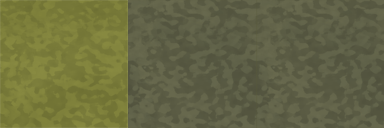
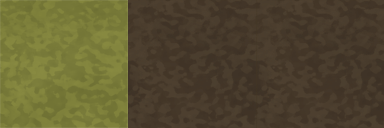
- Darkened the dirt texture for the HQ theme. (Thanks Renoki!) - Expirmented with fog effects, will get back to it later. - Player module no longer have to loop through every tile to handle   collision detections. - Changed how collisions with tiles happen. Trying to make it only push   the player i

diff --git a/src/p3d/player.py b/src/p3d/player.py
@@ -111,7 +111,7 @@ class player:
 
     # Set Start Position
     self.startPos = base.playerStart[self.id - 1]
-    self.ode_body.setPosition(self.startPos[0], self.startPos[1], self.startPos[2] + 10.0)
+    self.ode_body.setPosition(self.startPos[0], self.startPos[1], self.startPos[2] + 10.0 )
 
     # Stats
     self.accelerate = 20000
@@ -206,119 +206,130 @@ class player:
       # ODE Tile Collision
       tilePos = self.getTilePos()
       pos = self.ode_body.getPosition()
-      for i in base.tilePositions:
-        if not i['solid']: continue
 
-        # Below
-        if i['pos'][0] == tilePos[0] and i['pos'][1] == tilePos[1] and i['pos'][2] == tilePos[2] - 1:
-          vel[2] = .08
-          self.ode_body.setPosition(pos[0], pos[1], tilePos[2] * 2.0)
-        
-        elif self.colWithTile(i['pos'] * 2.0):
-          vel[0] = 0
-          vel[1] = 0
-          for x in range(len(self.moveVal)):
-            if (i['pos'][x] * 2.0) - pos[x] < 0:
-              force[x] = 20000
-            else:
-              force[x] = -20000
-        
+      for x in range(-2,2):
+        for y in range(0,2):
+          for z in range(-2,2):
 
-      # Fall off the side
-      if pos[2] < -10:
-        if not self.isDead:
-          lerpMe = LerpColorScaleInterval(self.actor, .5, (1,1,1,0))
-          lerpMe.start()
+ 
+            if str(int(tilePos[0]) + x) + "_" + str(int(tilePos[1]) + y) + "_" + str(int(tilePos[2]) + z) in base.tileCoords:
 
-          taskMgr.doMethodLater(.6, self.ode_body.setPosition, "Player_" + str(self.id) + "_FallResetPosition", extraArgs=[self.startPos[0], self.startPos[1], self.startPos[2] + 4], sort=1)
-          taskMgr.doMethodLater(.6, self.actor.setColorScale, "Player_" + str(self.id) + "_FallReappear", extraArgs=[(1,1,1,1)], sort=2)
-          taskMgr.doMethodLater(.65, self.particlePlay, "Player_" + str(self.id) + "_FallPoof", extraArgs=['diesplosion', 1.5], sort=3)
+              i = base.tileCoords[str(int(tilePos[0]) + x) + "_" + str(int(tilePos[1]) + y) + "_" + str(int(tilePos[2]) + z)]
 
-        self.isDead = True
-        vel[2] = 0
-        force[2] = 0
-      else:
-        self.isDead = False
+              if not i['solid']: continue
 
-
-      # ODE Player Collision
-
-      for i in base.players:
-        if i == self: continue
-        if i.noCollide == self or self.noCollide == i: continue
-
-        if self.colWithNode(i.actor, i.dimensions):
-
-          # Get Bump Power
-          myPower = self.getBumpPower(i.resist)
-          enePower = i.getBumpPower(self.resist)
-          
-          eneForce = [0,0,0]
-          eneVel = [0,0,0]
-
-          # Repel the players so they don't get stuck on each other.
-          oPos = i.actor.getPos()
-          for x in range(len(self.moveVal)):
-            if oPos[x] - pos[x] < 0:
-              force[x] = 40000
-              eneForce[x] = -40000
-
-              vel[x] = abs(enePower[x])
-              eneVel[x] = -abs(myPower[x])
-
-              if self.moveSpecial:
-                vel[x] = 0
-                force[x] = 50000
-                self.moveSpecial = False
-              elif i.moveSpecial:
-                eneVel[x] = 0
-                eneForce[x] = -50000
-                i.moveSpecial = False
+              # Below
+              if i['pos'][0] == tilePos[0] and i['pos'][1] == tilePos[1] and i['pos'][2] == tilePos[2] - 1:
+                vel[2] = .08
+                self.ode_body.setPosition(pos[0], pos[1], tilePos[2] * 2.0)
               
+              elif self.colWithTile(i['pos'] * 2.0):
+
+                for x in range(len(self.moveVal)):
+                  if (i['pos'][x] * 2.0) - pos[x] < 0:                     
+                    if vel[x] <= 0:
+                      vel[x] = 2.0
+                  else:
+                    if vel[x] > 0:
+                      vel[x] = -2.0
+        
+              
+
+            # Fall off the side
+            if pos[2] < -10:
+              if not self.isDead:
+                lerpMe = LerpColorScaleInterval(self.actor, .5, (1,1,1,0))
+                lerpMe.start()
+
+                taskMgr.doMethodLater(.6, self.ode_body.setPosition, "Player_" + str(self.id) + "_FallResetPosition", extraArgs=[self.startPos[0], self.startPos[1], self.startPos[2] + 4], sort=1)
+                taskMgr.doMethodLater(.6, self.actor.setColorScale, "Player_" + str(self.id) + "_FallReappear", extraArgs=[(1,1,1,1)], sort=2)
+                taskMgr.doMethodLater(.65, self.particlePlay, "Player_" + str(self.id) + "_FallPoof", extraArgs=['diesplosion', 1.5], sort=3)
+
+              self.isDead = True
+              vel[2] = 0
+              force[2] = 0
             else:
-              force[x] = -40000
-              eneForce[x] = 40000
-
-              vel[x] = -abs(enePower[x])
-              eneVel[x] = abs(myPower[x])
-
-              if self.moveSpecial:
-                vel[x] = 0
-                force[x] = -50000
-                self.moveSpecial = False
-              elif i.moveSpecial:
-                eneVel[x] = 0
-                eneForce[x] = 50000
-                i.moveSpecial = False
-
-          if not i.moveSpecial:
-            
-
-            i.ode_body.setLinearVel(eneVel[0], eneVel[1], eneVel[2])
-            i.ode_body.setForce(eneForce[0], eneForce[1], eneForce[2])
-
-            if abs(eneVel[0]) >= 4.5 or abs(eneVel[1]) >= 4.5:
-              i.reduceResist()
-
-          if not self.moveSpecial:
-
-            velTest = i.ode_body.getLinearVel()
-          
-            if abs(vel[0]) >= 4.5 or abs(vel[1]) >= 4.5:
-              self.reduceResist()
-
-              # Play stars particle effect
-              self.particlePlay('stars', .5)
+              self.isDead = False
 
 
-          for x in range(len(myPower)):
-            if abs(enePower[x]) >= 5.05:
-              self.actions.drop(.5)
-            if abs(myPower[x]) >= 5.05:
-              i.actions.drop(.5)
+            # ODE Player Collision
 
-          self.setNoCollide(.25, i)
-          i.setNoCollide(.25, self)
+            for i in base.players:
+              if i == self: continue
+              if i.noCollide == self or self.noCollide == i: continue
+
+              if self.colWithNode(i.actor, i.dimensions):
+
+                # Get Bump Power
+                myPower = self.getBumpPower(i.resist)
+                enePower = i.getBumpPower(self.resist)
+                
+                eneForce = [0,0,0]
+                eneVel = [0,0,0]
+
+                # Repel the players so they don't get stuck on each other.
+                oPos = i.actor.getPos()
+                for x in range(len(self.moveVal)):
+                  if oPos[x] - pos[x] < 0:
+                    force[x] = 40000
+                    eneForce[x] = -40000
+
+                    vel[x] = abs(enePower[x])
+                    eneVel[x] = -abs(myPower[x])
+
+                    if self.moveSpecial:
+                      vel[x] = 0
+                      force[x] = 50000
+                      self.moveSpecial = False
+                    elif i.moveSpecial:
+                      eneVel[x] = 0
+                      eneForce[x] = -50000
+                      i.moveSpecial = False
+                    
+                  else:
+                    force[x] = -40000
+                    eneForce[x] = 40000
+
+                    vel[x] = -abs(enePower[x])
+                    eneVel[x] = abs(myPower[x])
+
+                    if self.moveSpecial:
+                      vel[x] = 0
+                      force[x] = -50000
+                      self.moveSpecial = False
+                    elif i.moveSpecial:
+                      eneVel[x] = 0
+                      eneForce[x] = 50000
+                      i.moveSpecial = False
+
+                if not i.moveSpecial:
+                  
+
+                  i.ode_body.setLinearVel(eneVel[0], eneVel[1], eneVel[2])
+                  i.ode_body.setForce(eneForce[0], eneForce[1], eneForce[2])
+
+                  if abs(eneVel[0]) >= 4.5 or abs(eneVel[1]) >= 4.5:
+                    i.reduceResist()
+
+                if not self.moveSpecial:
+
+                  velTest = i.ode_body.getLinearVel()
+                
+                  if abs(vel[0]) >= 4.5 or abs(vel[1]) >= 4.5:
+                    self.reduceResist()
+
+                    # Play stars particle effect
+                    self.particlePlay('stars', .5)
+
+
+                for x in range(len(myPower)):
+                  if abs(enePower[x]) >= 5.05:
+                    self.actions.drop(.5)
+                  if abs(myPower[x]) >= 5.05:
+                    i.actions.drop(.5)
+
+                self.setNoCollide(.25, i)
+                i.setNoCollide(.25, self)
 
       # ODE Step
 

diff --git a/src/p3d/mapLoader.py b/src/p3d/mapLoader.py
@@ -1,5 +1,6 @@
 from PIL import Image, ImageDraw
 from panda3d.core import NodePath, Texture
+from pandac.PandaModules import Fog
 import ConfigParser, os, math
 
 class mapLoader:
@@ -16,6 +17,15 @@ class mapLoader:
 
     # Set Theme
     self.theme = "hq"
+
+    # Setup some Fog
+    #color = (0, 0, 0, .8)
+    #self.fog = Fog("FogNode")
+    #self.fog.setColor(color)
+    #self.fog.setLinearRange(0,320)
+    #self.fog.setLinearFallback(0, -10, 120)
+    #render.attachNewNode(self.fog)
+    #render.setFog(self.fog)
 
     # Create Node Path
     self.node = NodePath("Map")
@@ -44,6 +54,9 @@ class mapLoader:
     # Load up tiles from PNG
     image = Image.open(mapFile)
     size = image.size
+
+    # Max Height
+    self.maxHeight = 0
 
     # Prepare Tile Array
     self.tiles = []
@@ -96,7 +109,8 @@ class mapLoader:
       try:
         height = self.tileData.getint(str(bId), "height")
       except:
-        height = 1            
+        height = 1   
+  
 
       # Overlap Tile
       try:

diff --git a/src/p3d/menu.py b/src/p3d/menu.py
@@ -273,8 +273,16 @@ class mainMenu(FSM):
     # Set Window Properties
     wp = WindowProperties.getDefault() 
     if self.windowMode:
-      wp.setSize(screensize[0], screensize[1]) 
-      wp.setOrigin(0,0) 
+
+      self.windowOrigin = [wp.getXOrigin(), wp.getYOrigin()]
+      self.windowSize = [base.win.getXSize(), base.win.getYSize()]
+    
+      wp.setSize(screensize[0], screensize[1])
+      wp.setOrigin(0,0)
+
+    else:
+      wp.setSize(self.windowSize[0], self.windowSize[1])
+      wp.setOrigin(self.windowOrigin[0], self.windowOrigin[1])
 
     wp.setUndecorated(self.windowMode) 
     base.win.requestProperties(wp) 
